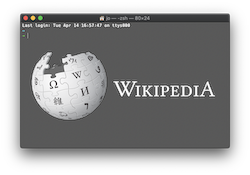
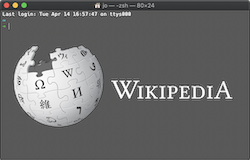
Link demo screenshots

diff --git a/README.md b/README.md
@@ -14,17 +14,17 @@ Here are some samples of my work including live demos, source code and a list of
 
 ## Demos
 
-| Project | Year | <div style="width: 120px;">Links</div> | <div style="width: 270px;">Technologies</div> |
+| Project | Year | <div style="width: 250px;">Links</div> | <div style="width: 270px;">Technologies</div> |
 |:---|:---:|:---:|:---|
-| <h4>Tater 🥔</h4> A React plugin to add emoji markers and annotations to any element on a page. With algorithms for collision detection and finding nearest points. Includes extensive documentation of my technical choices. | 2020 | [NPM Package](https://www.npmjs.com/package/react-tater)<br><br> [Live Demo](https://iamlocaljo.com/graphy-react-challenge/)<br><br> [Technical Docs](https://github.com/localjo/graphy-react-challenge) | ![JavaScript](https://img.shields.io/badge/javascript-339933?logo=javascript&style=for-the-badge&logoColor=white) ![React](https://img.shields.io/badge/react-61DAFB?logo=react&style=for-the-badge&logoColor=white) ![React Hooks](https://img.shields.io/badge/react--hooks-61DAFB?logo=react&style=for-the-badge&logoColor=white) ![Jest](https://img.shields.io/badge/jest-C21325?logo=jest&style=for-the-badge&logoColor=white) ![create-react-library](https://img.shields.io/badge/create--react--library-grey?style=for-the-badge) ![styled-components](https://img.shields.io/badge/styled--components-grey?style=for-the-badge)  ![unicode-emoji](https://img.shields.io/badge/unicode--emoji-grey?style=for-the-badge) ![collison detection](https://img.shields.io/badge/collision--detection-grey?style=for-the-badge) |
-| <h4>Trivia Demo</h4> A trivia app demo I built that gets a list of true/false trivia questions from a JSON API and presents them in one at a time with animations, showing the player's score at the end. | 2020 | [Code Repo](https://github.com/localjo/trivia-demo)<br><br> [Live Demo](https://iamlocaljo.com/trivia-demo/) | ![TypeScript](https://img.shields.io/badge/typescript-007ACC?logo=typescript&style=for-the-badge&logoColor=white) ![React](https://img.shields.io/badge/react-61DAFB?logo=react&style=for-the-badge&logoColor=white) ![Redux](https://img.shields.io/badge/redux-764ABC?logo=redux&style=for-the-badge&logoColor=white) ![React Router](https://img.shields.io/badge/react--router-CA4245?logo=react-router&style=for-the-badge&logoColor=white) ![Material UI](https://img.shields.io/badge/material--ui-0081CB?logo=material-ui&style=for-the-badge&logoColor=white) ![react-transition-group](https://img.shields.io/badge/react--transition--group-grey?style=for-the-badge) ![lodash](https://img.shields.io/badge/lodash-grey?style=for-the-badge) ![Jest](https://img.shields.io/badge/jest-C21325?logo=jest&style=for-the-badge&logoColor=white) |
-| <h4>Giphy Signal</h4> A lightweight GIF search engine that uses the Giphy API and allows users to quickly search for GIFs as they type. | 2019 | [Code Repo](https://github.com/localjo/giphy-signal)<br><br> [Live Demo](https://giphy-signal.herokuapp.com/) | ![JavaScript](https://img.shields.io/badge/javascript-339933?logo=javascript&style=for-the-badge&logoColor=white) ![React](https://img.shields.io/badge/react-61DAFB?logo=react&style=for-the-badge&logoColor=white) ![Redux](https://img.shields.io/badge/redux-764ABC?logo=redux&style=for-the-badge&logoColor=white) ![Jest](https://img.shields.io/badge/jest-C21325?logo=jest&style=for-the-badge&logoColor=white) ![CSS](https://img.shields.io/badge/css-F43059?logo=css-wizardry&style=for-the-badge&logoColor=white) ![lodash](https://img.shields.io/badge/lodash-grey?style=for-the-badge)  ![Giphy API](https://img.shields.io/badge/giphy--api-grey?style=for-the-badge) |
-| <h4>Ethereum App Demo</h4> I built this app to learn Solidity. It mimics a simple Twitter poll with the votes being tracked on the Ethereum blockchain. | 2017 | [Code Repo](https://github.com/localjo/ethereum-app-demo) | ![Solidity](https://img.shields.io/badge/Solidity-grey?logo=ethereum&style=for-the-badge&logoColor=white) ![Ethereum](https://img.shields.io/badge/Ethereum-grey?logo=ethereum&style=for-the-badge&logoColor=white) ![JavaScript](https://img.shields.io/badge/javascript-339933?logo=javascript&style=for-the-badge&logoColor=white) ![React](https://img.shields.io/badge/react-61DAFB?logo=react&style=for-the-badge&logoColor=white) |
-| <h4>Kanban Demo</h4> A basic Kanban board I built as a Trello clone using React Hooks, React Context and React Drag n Drop. | 2019 | [Code Repo](https://github.com/localjo/kanban-takehome)<br><br> [Live Demo](http://iamlocaljo.com/kanban-takehome/) | ![JavaScript](https://img.shields.io/badge/javascript-339933?logo=javascript&style=for-the-badge&logoColor=white) ![React](https://img.shields.io/badge/react-61DAFB?logo=react&style=for-the-badge&logoColor=white) ![CSS](https://img.shields.io/badge/css-F43059?logo=css-wizardry&style=for-the-badge&logoColor=white) ![react-dnd](https://img.shields.io/badge/react--dnd-grey?style=for-the-badge) ![Jest](https://img.shields.io/badge/jest-C21325?logo=jest&style=for-the-badge&logoColor=white) |
-| <h4>NASA Worldview Layers Search Component (Demo)</h4> <br> A demo of a very fast search component I built while working on NASA Worldview to show how an existing codebase can be migrated to React one component at a time. | 2017 | [Code Repo](https://github.com/localjo/layers-search)<br><br> [Live Demo](http://iamlocaljo.com/layers-search/) | ![JavaScript](https://img.shields.io/badge/javascript-339933?logo=javascript&style=for-the-badge&logoColor=white) ![React](https://img.shields.io/badge/react-61DAFB?logo=react&style=for-the-badge&logoColor=white)  ![NASA GIBS API](https://img.shields.io/badge/nasa--gibs--api-grey?style=for-the-badge) |
-| <h4>Encyclopedia CLI</h4> A demo application that allows reading a Wikipedia from the command line. Supports any MediaWiki instance and language. | 2019 | [Code Repo](https://github.com/localjo/encyclopedia-cli) | ![JavaScript](https://img.shields.io/badge/javascript-339933?logo=javascript&style=for-the-badge&logoColor=white) ![Bash](https://img.shields.io/badge/bash-333333?logo=gnu-bash&style=for-the-badge&logoColor=white) ![Cliffy](https://img.shields.io/badge/cliffy-grey?style=for-the-badge) ![lodash](https://img.shields.io/badge/lodash-grey?style=for-the-badge) ![Wikipedia API](https://img.shields.io/badge/wikipedia--api-grey?logo=wikipedia&style=for-the-badge) ![Jest](https://img.shields.io/badge/jest-C21325?logo=jest&style=for-the-badge&logoColor=white) |
-| <h4>OCR Bank Kata</h4> My solution to [this Coding Dojo challenge](http://codingdojo.org/kata/BankOCR/). | 2018 | [Code Repo](https://github.com/localjo/ocr-bank) | ![JavaScript](https://img.shields.io/badge/javascript-339933?logo=javascript&style=for-the-badge&logoColor=white) |
-| <h4>Table Sorter (Demo)</h4> A very old code sample, a pure JS table sorter using QUnit for tests and Bootstrap for styles. | 2014 | [Code Repo](https://github.com/localjo/table-sorter)<br><br> [Live Demo](http://iamlocaljo.com/table-sorter/) | ![JavaScript](https://img.shields.io/badge/javascript-339933?logo=javascript&style=for-the-badge&logoColor=white) ![HTML](https://img.shields.io/badge/html-E34F26?logo=html5&style=for-the-badge&logoColor=white) ![QUnit](https://img.shields.io/badge/qunit-grey?style=for-the-badge) ![Bootstrap](https://img.shields.io/badge/Bootstrap-563D7C?logo=bootstrap&style=for-the-badge) |
-| | |&nbsp;&nbsp;&nbsp;&nbsp;&nbsp;&nbsp;&nbsp;&nbsp;&nbsp;&nbsp;&nbsp;&nbsp;&nbsp;&nbsp;&nbsp;&nbsp;&nbsp;&nbsp;&nbsp;&nbsp;&nbsp;&nbsp;&nbsp;&nbsp;&nbsp;&nbsp;&nbsp;&nbsp;&nbsp;&nbsp;&nbsp;&nbsp;&nbsp;&nbsp;&nbsp;&nbsp;&nbsp;&nbsp;&nbsp;|&nbsp;&nbsp;&nbsp;&nbsp;&nbsp;&nbsp;&nbsp;&nbsp;&nbsp;&nbsp;&nbsp;&nbsp;&nbsp;&nbsp;&nbsp;&nbsp;&nbsp;&nbsp;&nbsp;&nbsp;&nbsp;&nbsp;&nbsp;&nbsp;&nbsp;&nbsp;&nbsp;&nbsp;&nbsp;&nbsp;&nbsp;&nbsp;&nbsp;&nbsp;&nbsp;&nbsp;&nbsp;&nbsp;&nbsp;&nbsp;&nbsp;&nbsp;&nbsp;&nbsp;&nbsp;&nbsp;&nbsp;&nbsp;&nbsp;&nbsp;&nbsp;&nbsp;&nbsp;&nbsp;&nbsp;&nbsp;&nbsp;&nbsp;&nbsp;&nbsp;&nbsp;&nbsp;&nbsp;&nbsp;&nbsp;&nbsp;&nbsp;&nbsp;|
+| <h4>Tater 🥔</h4> A React plugin to add emoji markers and annotations to any element on a page. With algorithms for collision detection and finding nearest points. Includes extensive documentation of my technical choices. | 2020 | [![Screenshot](./screenshots/react-tater.png)](https://www.npmjs.com/package/react-tater)<br>[NPM Package](https://www.npmjs.com/package/react-tater) • [Live Demo](https://iamlocaljo.com/graphy-react-challenge/) • [Technical Docs](https://github.com/localjo/graphy-react-challenge) | ![JavaScript](https://img.shields.io/badge/javascript-339933?logo=javascript&style=for-the-badge&logoColor=white) ![React](https://img.shields.io/badge/react-61DAFB?logo=react&style=for-the-badge&logoColor=white) ![React Hooks](https://img.shields.io/badge/react--hooks-61DAFB?logo=react&style=for-the-badge&logoColor=white) ![Jest](https://img.shields.io/badge/jest-C21325?logo=jest&style=for-the-badge&logoColor=white) ![create-react-library](https://img.shields.io/badge/create--react--library-grey?style=for-the-badge) ![styled-components](https://img.shields.io/badge/styled--components-grey?style=for-the-badge)  ![unicode-emoji](https://img.shields.io/badge/unicode--emoji-grey?style=for-the-badge) ![collison detection](https://img.shields.io/badge/collision--detection-grey?style=for-the-badge) |
+| <h4>Trivia Demo</h4> A trivia app demo I built that gets a list of true/false trivia questions from a JSON API and presents them in one at a time with animations, showing the player's score at the end. | 2020 |[![Screenshot](./screenshots/trivia-demo.png)](https://iamlocaljo.com/trivia-demo/)<br> [Code Repo](https://github.com/localjo/trivia-demo) • [Live Demo](https://iamlocaljo.com/trivia-demo/) | ![TypeScript](https://img.shields.io/badge/typescript-007ACC?logo=typescript&style=for-the-badge&logoColor=white) ![React](https://img.shields.io/badge/react-61DAFB?logo=react&style=for-the-badge&logoColor=white) ![Redux](https://img.shields.io/badge/redux-764ABC?logo=redux&style=for-the-badge&logoColor=white) ![React Router](https://img.shields.io/badge/react--router-CA4245?logo=react-router&style=for-the-badge&logoColor=white) ![Material UI](https://img.shields.io/badge/material--ui-0081CB?logo=material-ui&style=for-the-badge&logoColor=white) ![react-transition-group](https://img.shields.io/badge/react--transition--group-grey?style=for-the-badge) ![lodash](https://img.shields.io/badge/lodash-grey?style=for-the-badge) ![Jest](https://img.shields.io/badge/jest-C21325?logo=jest&style=for-the-badge&logoColor=white) |
+| <h4>Giphy Signal</h4> A lightweight GIF search engine that uses the Giphy API and allows users to quickly search for GIFs as they type. | 2019 |[![Screenshot](./screenshots/giphy-signal.png)](https://giphy-signal.herokuapp.com/)<br> [Code Repo](https://github.com/localjo/giphy-signal) • [Live Demo](https://giphy-signal.herokuapp.com/) | ![JavaScript](https://img.shields.io/badge/javascript-339933?logo=javascript&style=for-the-badge&logoColor=white) ![React](https://img.shields.io/badge/react-61DAFB?logo=react&style=for-the-badge&logoColor=white) ![Redux](https://img.shields.io/badge/redux-764ABC?logo=redux&style=for-the-badge&logoColor=white) ![Jest](https://img.shields.io/badge/jest-C21325?logo=jest&style=for-the-badge&logoColor=white) ![CSS](https://img.shields.io/badge/css-F43059?logo=css-wizardry&style=for-the-badge&logoColor=white) ![lodash](https://img.shields.io/badge/lodash-grey?style=for-the-badge)  ![Giphy API](https://img.shields.io/badge/giphy--api-grey?style=for-the-badge) |
+| <h4>Ethereum App Demo</h4> I built this app to learn Solidity. It mimics a simple Twitter poll with the votes being tracked on the Ethereum blockchain. | 2017 |[![Screenshot](./screenshots/ethereum-dapp.png)](ttps://github.com/localjo/ethereum-app-demo)<br> [Code Repo](https://github.com/localjo/ethereum-app-demo) | ![Solidity](https://img.shields.io/badge/Solidity-grey?logo=ethereum&style=for-the-badge&logoColor=white) ![Ethereum](https://img.shields.io/badge/Ethereum-grey?logo=ethereum&style=for-the-badge&logoColor=white) ![JavaScript](https://img.shields.io/badge/javascript-339933?logo=javascript&style=for-the-badge&logoColor=white) ![React](https://img.shields.io/badge/react-61DAFB?logo=react&style=for-the-badge&logoColor=white) |
+| <h4>Kanban Demo</h4> A basic Kanban board I built as a Trello clone using React Hooks, React Context and React Drag n Drop. | 2019 |[![Screenshot](./screenshots/kanban-demo.png)](http://iamlocaljo.com/kanban-takehome/)<br> [Code Repo](https://github.com/localjo/kanban-takehome) • [Live Demo](http://iamlocaljo.com/kanban-takehome/) | ![JavaScript](https://img.shields.io/badge/javascript-339933?logo=javascript&style=for-the-badge&logoColor=white) ![React](https://img.shields.io/badge/react-61DAFB?logo=react&style=for-the-badge&logoColor=white) ![CSS](https://img.shields.io/badge/css-F43059?logo=css-wizardry&style=for-the-badge&logoColor=white) ![react-dnd](https://img.shields.io/badge/react--dnd-grey?style=for-the-badge) ![Jest](https://img.shields.io/badge/jest-C21325?logo=jest&style=for-the-badge&logoColor=white) |
+| <h4>NASA Worldview Layers Search Component (Demo)</h4> <br> A demo of a very fast search component I built while working on NASA Worldview to show how an existing codebase can be migrated to React one component at a time. | 2017 |[![Screenshot](./screenshots/nasa-worldview.png)](https://worldview.earthdata.nasa.gov/)<br> [Code Repo](https://github.com/localjo/layers-search) • [Live Demo](http://iamlocaljo.com/layers-search/) | ![JavaScript](https://img.shields.io/badge/javascript-339933?logo=javascript&style=for-the-badge&logoColor=white) ![React](https://img.shields.io/badge/react-61DAFB?logo=react&style=for-the-badge&logoColor=white)  ![NASA GIBS API](https://img.shields.io/badge/nasa--gibs--api-grey?style=for-the-badge) |
+| <h4>Encyclopedia CLI</h4> A demo application that allows reading a Wikipedia from the command line. Supports any MediaWiki instance and language. | 2019 |[![Screenshot](./screenshots/wikipedia-cli.png)](https://github.com/localjo/encyclopedia-cli)<br> [Code Repo](https://github.com/localjo/encyclopedia-cli) | ![JavaScript](https://img.shields.io/badge/javascript-339933?logo=javascript&style=for-the-badge&logoColor=white) ![Bash](https://img.shields.io/badge/bash-333333?logo=gnu-bash&style=for-the-badge&logoColor=white) ![Cliffy](https://img.shields.io/badge/cliffy-grey?style=for-the-badge) ![lodash](https://img.shields.io/badge/lodash-grey?style=for-the-badge) ![Wikipedia API](https://img.shields.io/badge/wikipedia--api-grey?logo=wikipedia&style=for-the-badge) ![Jest](https://img.shields.io/badge/jest-C21325?logo=jest&style=for-the-badge&logoColor=white) |
+| <h4>OCR Bank Kata</h4> My solution to [this Coding Dojo challenge](http://codingdojo.org/kata/BankOCR/). | 2018 |[![Screenshot](./screenshots/ocr-bank-kata.png)](https://github.com/localjo/ocr-bank)<br> [Code Repo](https://github.com/localjo/ocr-bank) | ![JavaScript](https://img.shields.io/badge/javascript-339933?logo=javascript&style=for-the-badge&logoColor=white) |
+| <h4>Table Sorter (Demo)</h4> A very old code sample, a pure JS table sorter using QUnit for tests and Bootstrap for styles. | 2014 |[![Screenshot](./screenshots/table-sorter.png)](http://iamlocaljo.com/table-sorter/)<br> [Code Repo](https://github.com/localjo/table-sorter) • [Live Demo](http://iamlocaljo.com/table-sorter/) | ![JavaScript](https://img.shields.io/badge/javascript-339933?logo=javascript&style=for-the-badge&logoColor=white) ![HTML](https://img.shields.io/badge/html-E34F26?logo=html5&style=for-the-badge&logoColor=white) ![QUnit](https://img.shields.io/badge/qunit-grey?style=for-the-badge) ![Bootstrap](https://img.shields.io/badge/Bootstrap-563D7C?logo=bootstrap&style=for-the-badge) |
+| | |&nbsp;&nbsp;&nbsp;&nbsp;&nbsp;&nbsp;&nbsp;&nbsp;&nbsp;&nbsp;&nbsp;&nbsp;&nbsp;&nbsp;&nbsp;&nbsp;&nbsp;&nbsp;&nbsp;&nbsp;&nbsp;&nbsp;&nbsp;&nbsp;&nbsp;&nbsp;&nbsp;&nbsp;&nbsp;&nbsp;&nbsp;&nbsp;&nbsp;&nbsp;&nbsp;&nbsp;&nbsp;&nbsp;&nbsp;&nbsp;&nbsp;&nbsp;&nbsp;&nbsp;&nbsp;&nbsp;&nbsp;&nbsp;&nbsp;&nbsp;&nbsp;&nbsp;&nbsp;&nbsp;&nbsp;&nbsp;&nbsp;&nbsp;&nbsp;|&nbsp;&nbsp;&nbsp;&nbsp;&nbsp;&nbsp;&nbsp;&nbsp;&nbsp;&nbsp;&nbsp;&nbsp;&nbsp;&nbsp;&nbsp;&nbsp;&nbsp;&nbsp;&nbsp;&nbsp;&nbsp;&nbsp;&nbsp;&nbsp;&nbsp;&nbsp;&nbsp;&nbsp;&nbsp;&nbsp;&nbsp;&nbsp;&nbsp;&nbsp;&nbsp;&nbsp;&nbsp;&nbsp;&nbsp;&nbsp;&nbsp;&nbsp;&nbsp;&nbsp;&nbsp;&nbsp;&nbsp;&nbsp;&nbsp;&nbsp;&nbsp;&nbsp;&nbsp;&nbsp;&nbsp;&nbsp;&nbsp;&nbsp;&nbsp;&nbsp;&nbsp;&nbsp;&nbsp;&nbsp;&nbsp;&nbsp;&nbsp;&nbsp;|
 
 Thank you for taking the time to look at my work. If you'd like to see more, check out [my GitHub profile](https://github.com/localjo).
